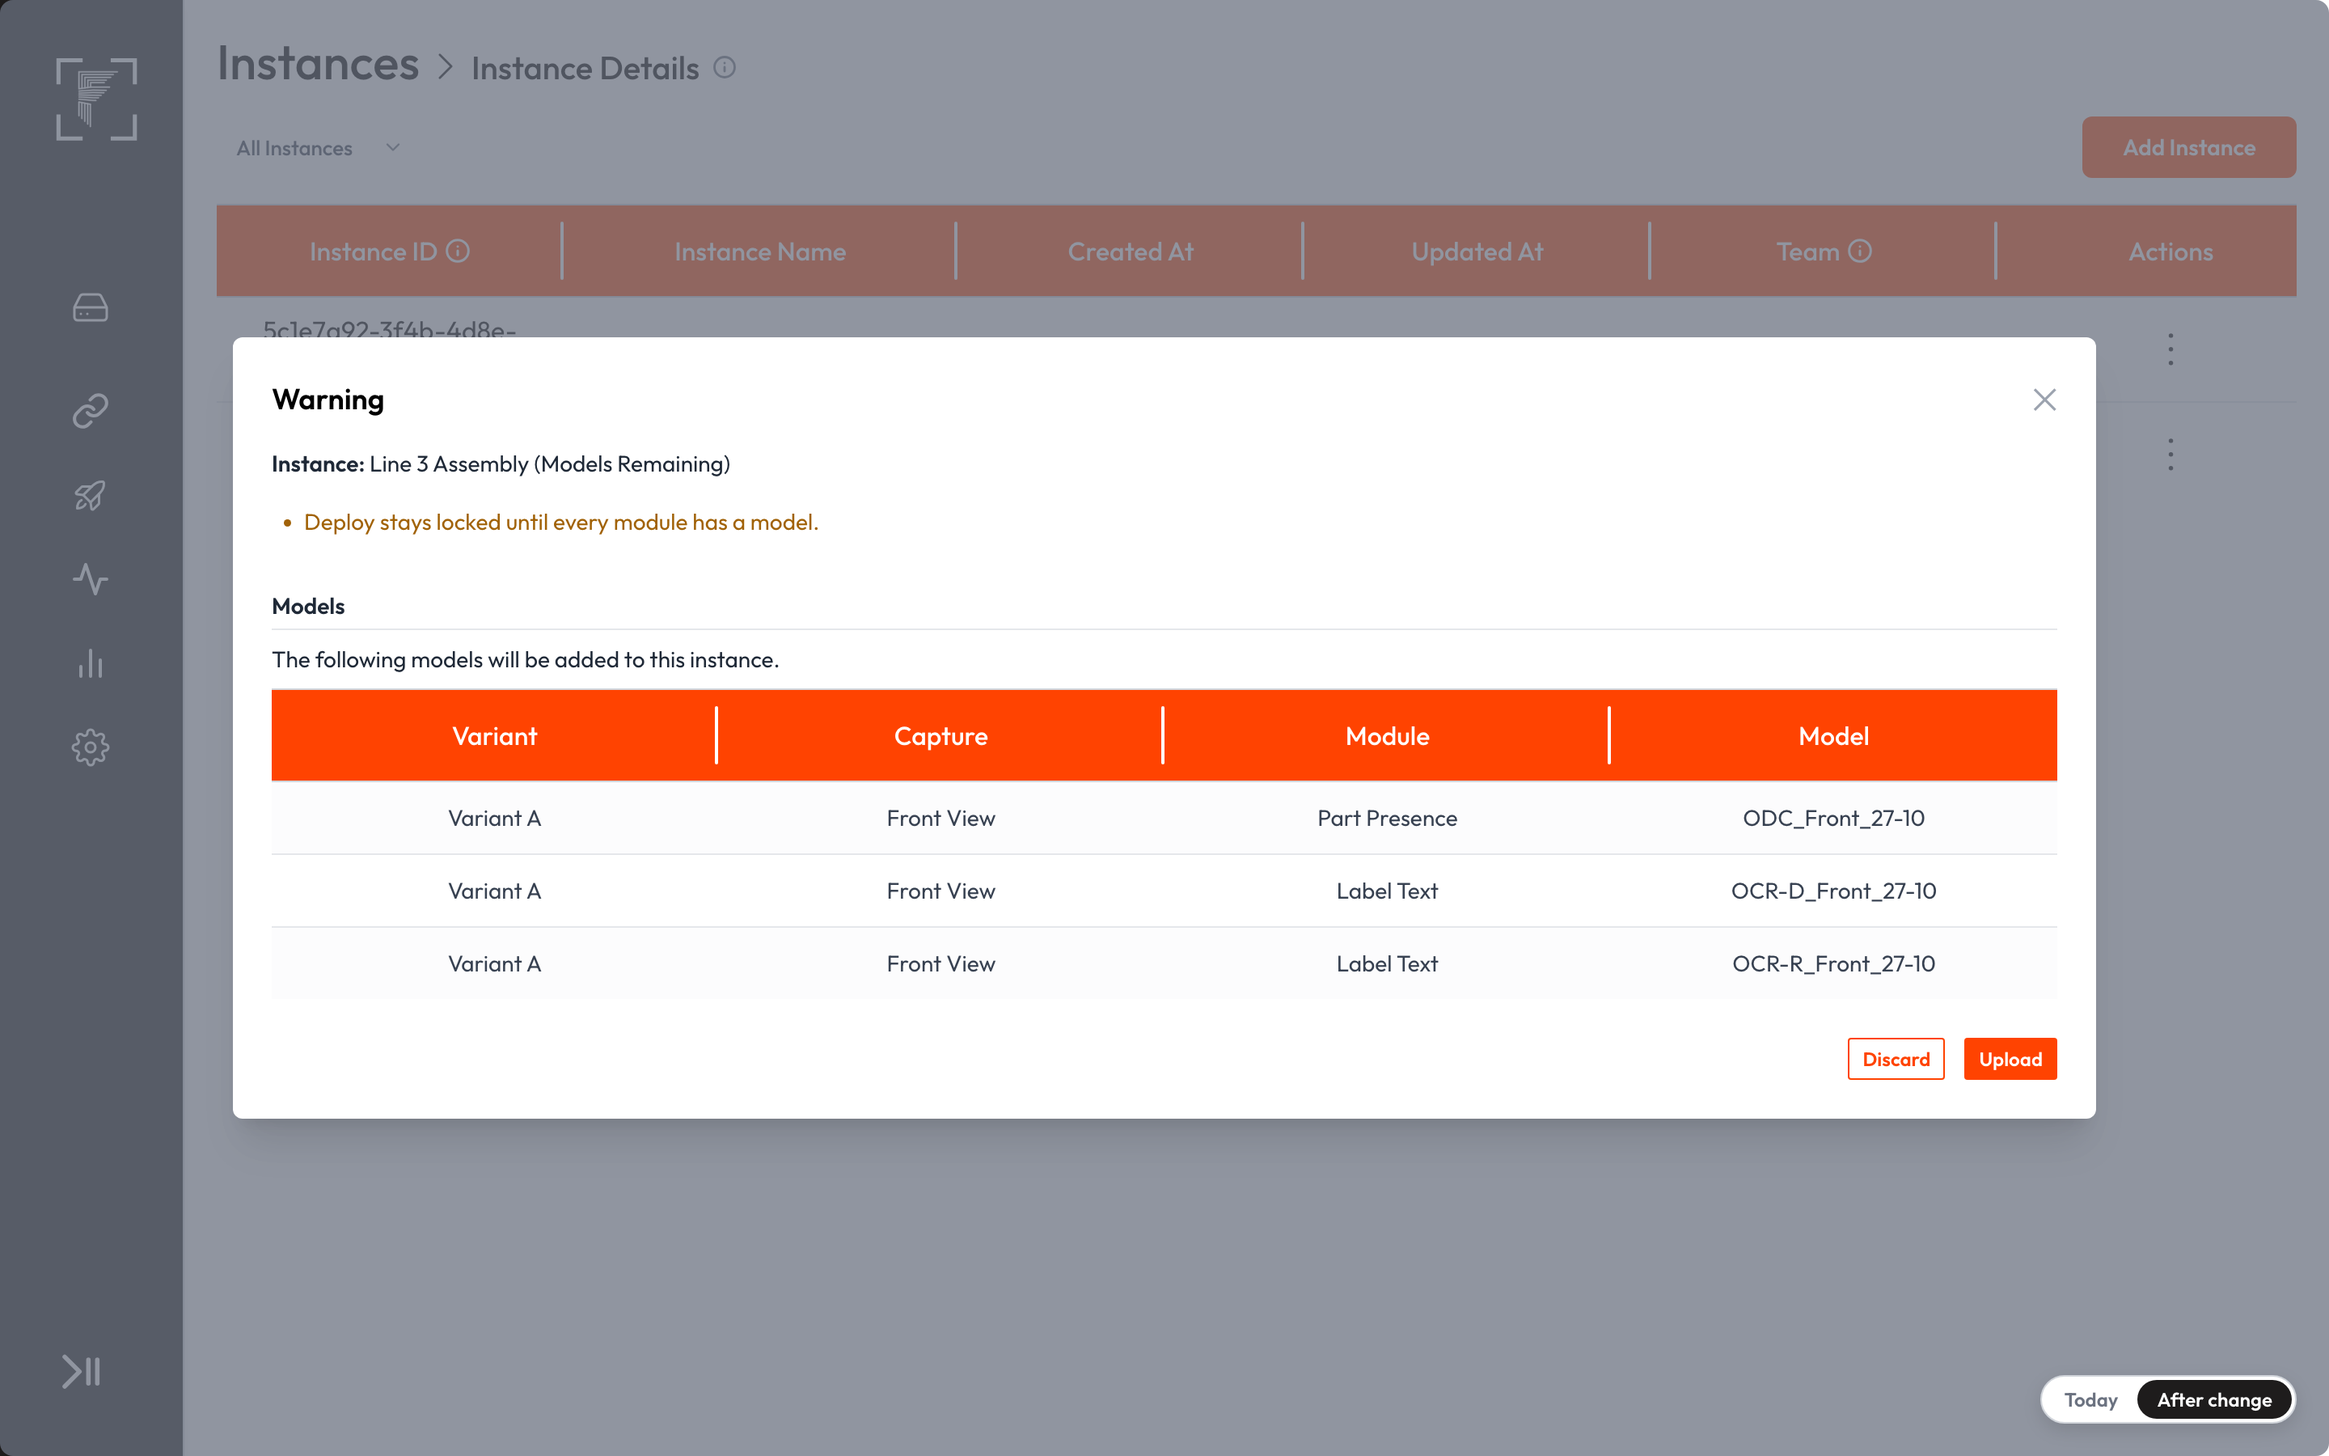
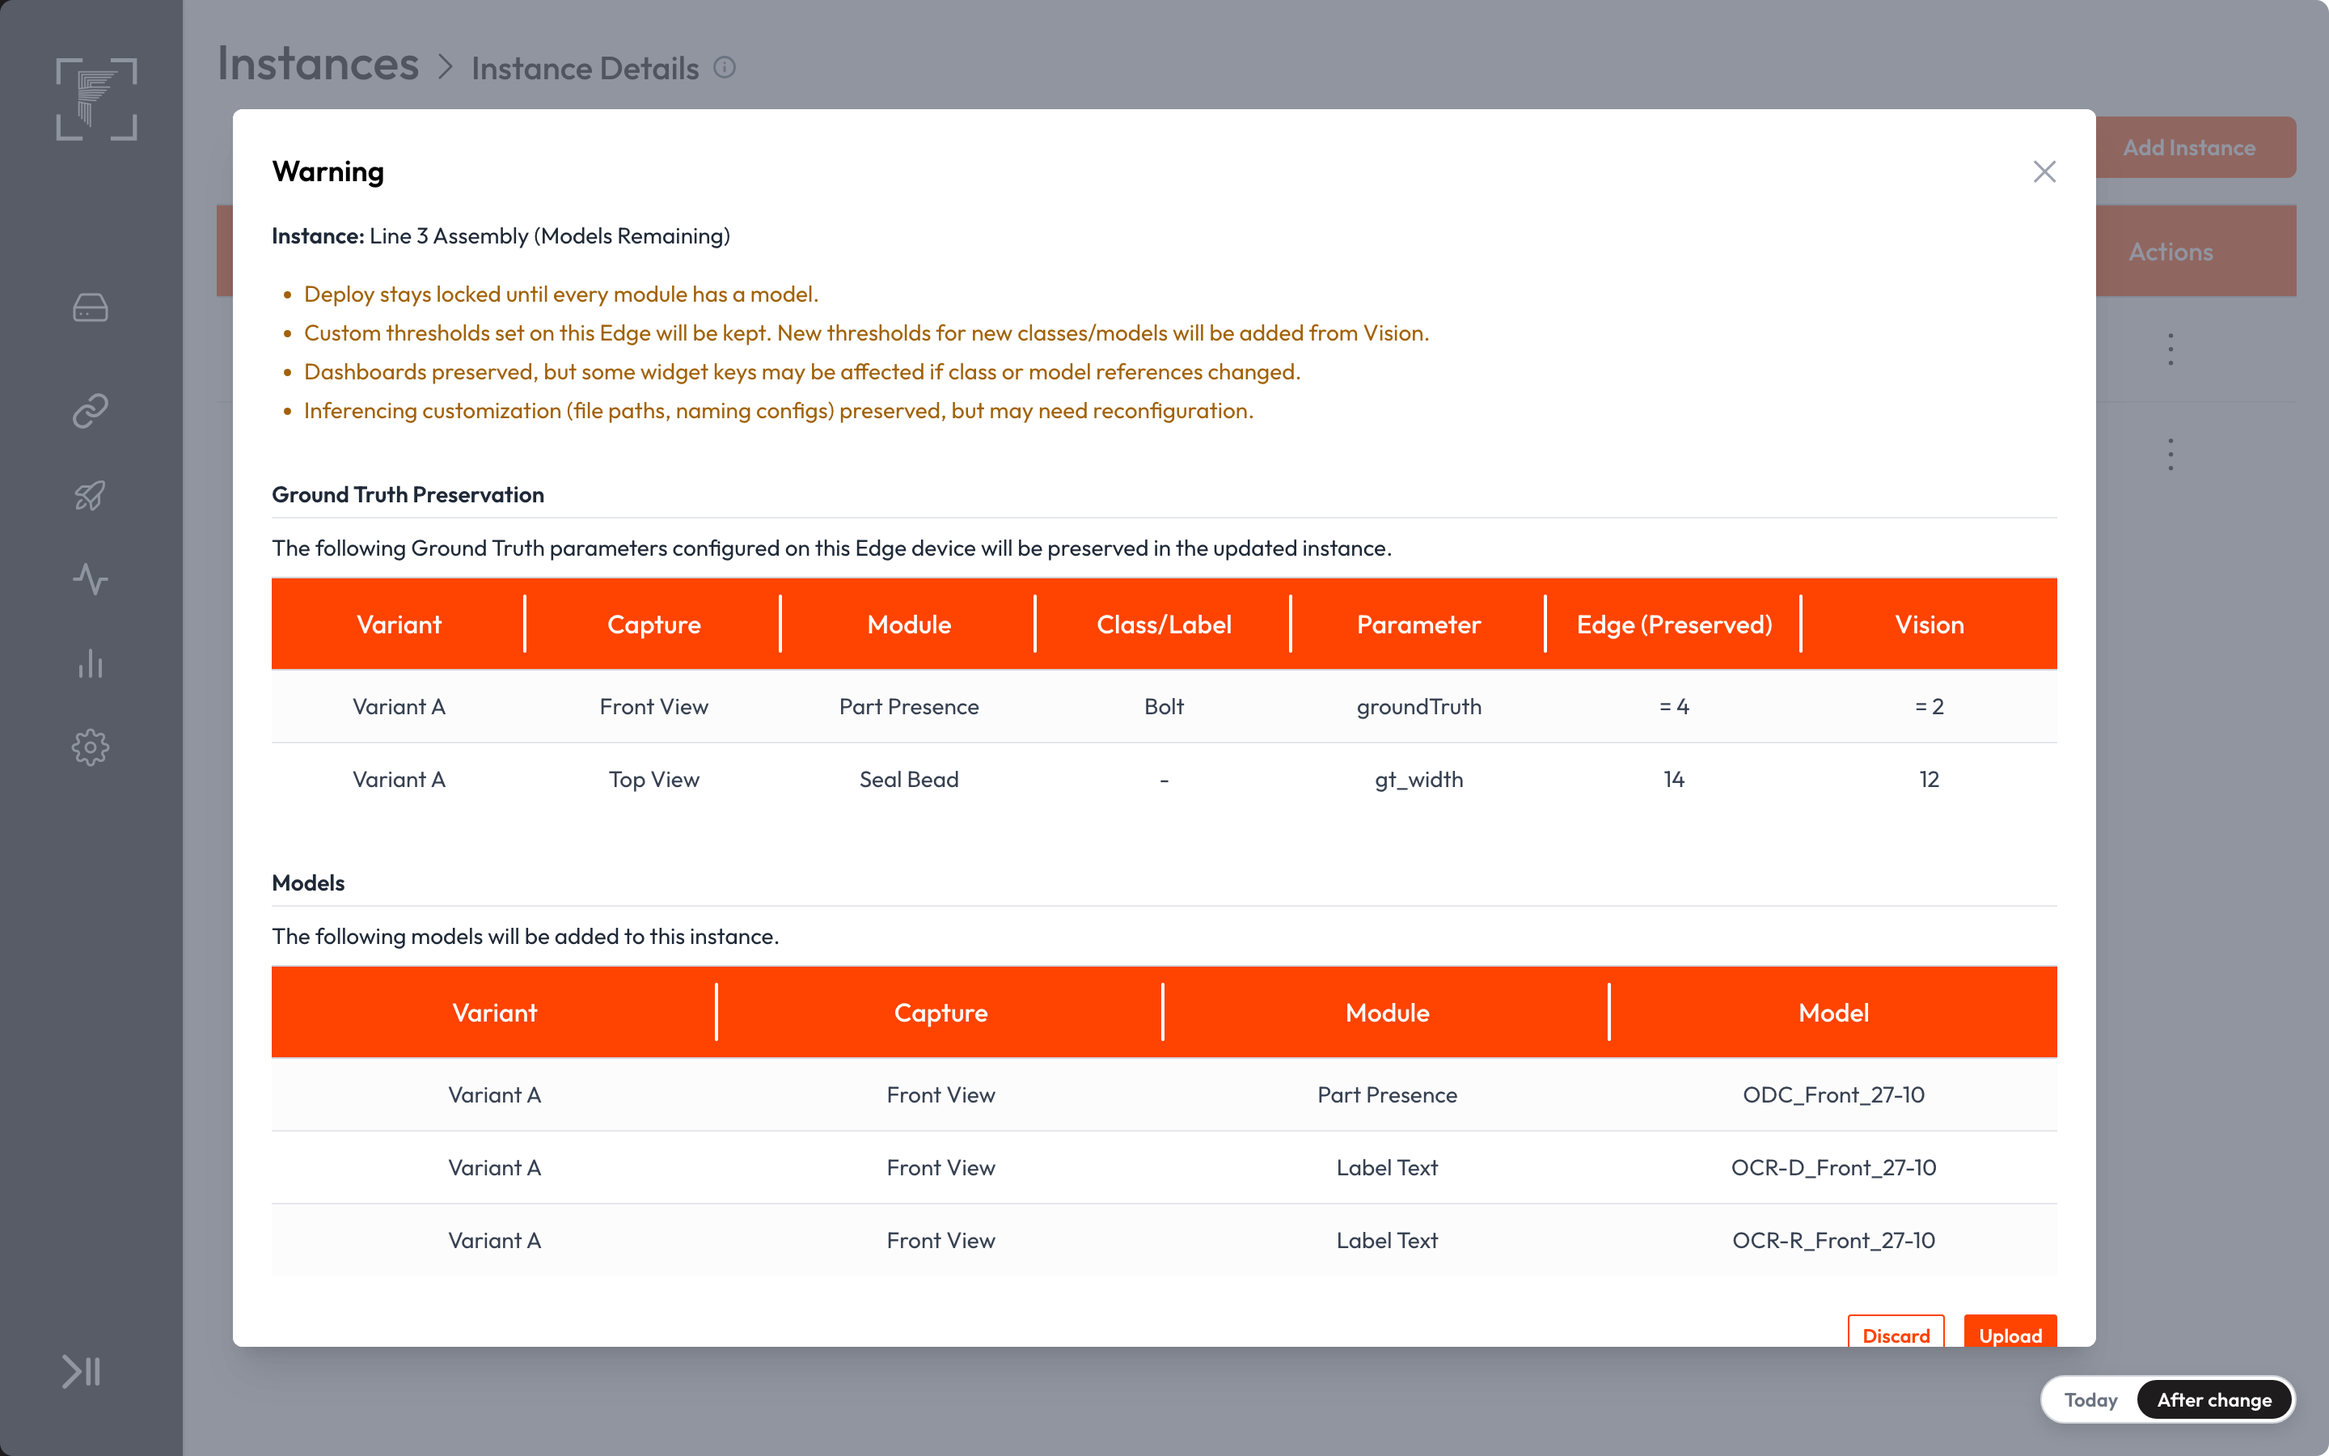
Round 3: Add Instance refuses an ID already on Edge, Edge testing greys out captures missing a model, full re-upload lines in the some-models dialog

diff --git a/edge-instances.html b/edge-instances.html
@@ -401,7 +401,7 @@ a.sb-item:hover{background:rgb(255 255 255/.2)}
   'use strict';
 
   // ---------- ?mode=today|after (default after), ?state=, ?open=dialog ----------
-  var STATES = ['upload', 'uploaded', 'some-models', 'models', 'wrong-instance', 'missing-config', 'reupload-config', 'reupload-full'];
+  var STATES = ['upload', 'uploaded', 'some-models', 'models', 'wrong-instance', 'missing-config', 'reupload-config', 'reupload-full', 'duplicate-id'];
   var mode = 'after', state = 'upload', openParam = '';
   try {
     var qs = new URLSearchParams(location.search);
@@ -457,7 +457,7 @@ a.sb-item:hover{background:rgb(255 255 255/.2)}
   var L2 = { id: '5c1e7a92-3f4b-4d8e-9a26-0b7f3c51e8d4', name: 'Line 2 Assembly', teamName: 'Team 1' };
   function L3() { var sh = readShared(); return { id: seedUuid(sh.instanceId), name: sh.instanceName, teamName: 'Team 1' }; }
   function inst(ref) { return ref === 'L3' ? L3() : L2; }
-  var REUPLOAD_DAY = state === 'reupload-config' || state === 'reupload-full';
+  var REUPLOAD_DAY = state === 'reupload-config' || state === 'reupload-full' || state === 'duplicate-id';
   var T = {
     l2Created: new Date(2026, 9, 14, 15, 33, 18).getTime(), l2Updated: new Date(2026, 9, 27, 11, 8, 42).getTime(),
     l2Reup: new Date(2026, 9, REUPLOAD_DAY ? 29 : 28, 9, 2, 16).getTime(),
@@ -469,7 +469,7 @@ a.sb-item:hover{background:rgb(255 255 255/.2)}
   function addL3Row(tagged, updatedAt) { rows.push({ ref: 'L3', createdAt: T.l3Created, updatedAt: updatedAt, tagged: tagged }); }
   // Line 3 on the box: Configuration only (tagged), or with some models (still tagged)
   if (state === 'uploaded' && mode === 'after') addL3Row(true, T.l3Cfg);
-  if (['some-models', 'wrong-instance', 'reupload-config', 'reupload-full'].indexOf(state) >= 0) addL3Row(mode === 'after', T.l3Cfg);
+  if (['some-models', 'wrong-instance', 'reupload-config', 'reupload-full', 'duplicate-id'].indexOf(state) >= 0) addL3Row(mode === 'after', T.l3Cfg);
   if (state === 'models') addL3Row(mode === 'after', T.l3Some);
   function rowOf(ref) { return rows.filter(function (r) { return r.ref === ref; })[0] || null; }
   function rowById(id) { return rows.filter(function (r) { return inst(r.ref).id === id; })[0] || null; }
@@ -487,13 +487,14 @@ a.sb-item:hover{background:rgb(255 255 255/.2)}
     var seed = readShared().instanceId;
     return ['Part Presence', 'Label Text', 'Seal Bead', 'Surface Check'].map(function (m) { return seedUuid(seed + '/' + m); });
   }
-  // Ground truth changed on this Edge (EMC) after the first upload, in the re-upload states.
+  // Ground truth changed on this Edge (EMC) after the first upload, in the some-models and re-upload states.
   // Shape of a getPreservationDetails gtDiff (uploadValidation.ts:1060-1470), values via formatValue (InstanceTable.jsx:38-57).
   var GT_DIFFS = [
     ['Variant A', 'Front View', 'Part Presence', 'Bolt', 'groundTruth', '= 4', '= 2'],
     ['Variant A', 'Top View', 'Seal Bead', '-', 'gt_width', '14', '12']
   ];
-  function gtDiffsFor(p) { return REUPLOAD_DAY && p.ref === 'L3' && p.hasSql && rowById(p.instId) ? GT_DIFFS : null; }
+  var GT_CHANGED = state === 'some-models' || state === 'reupload-config' || state === 'reupload-full';
+  function gtDiffsFor(p) { return GT_CHANGED && p.ref === 'L3' && p.hasSql && rowById(p.instId) ? GT_DIFFS : null; }
 
   // ---------- Packages in ~/Downloads (Vision names them "<instanceId>_<ISO time>.zip": frinksvision-backend controller/instance.ts:321) ----------
   // kind: config = configuration, no models; some = configuration + some models; full = configuration + every model;
@@ -518,10 +519,10 @@ a.sb-item:hover{background:rgb(255 255 255/.2)}
     'upload': ['l2full', 'l3cfg'], 'uploaded': ['l2full', 'l3cfg'],
     'some-models': ['l2full', 'l3cfg', 'l3some'],
     'models': ['l2full', 'l3cfg', 'l3some', 'l3models'], 'wrong-instance': ['l2full', 'l3cfg', 'l3some', 'l3models'], 'missing-config': ['l2full', 'l3cfg', 'l3some', 'l3models'],
-    'reupload-config': ['l2full', 'l3cfg', 'l3cfg2'], 'reupload-full': ['l2full', 'l3cfg', 'l3full']
+    'reupload-config': ['l2full', 'l3cfg', 'l3cfg2'], 'reupload-full': ['l2full', 'l3cfg', 'l3full'], 'duplicate-id': ['l2full', 'l3cfg', 'l3full']
   };
   var DEFAULT_FILE = { 'upload': 'l3cfg', 'uploaded': 'l3cfg', 'some-models': 'l3some', 'models': 'l3models', 'wrong-instance': 'l3models',
-    'missing-config': 'l3models', 'reupload-config': 'l3cfg2', 'reupload-full': 'l3full' };
+    'missing-config': 'l3models', 'reupload-config': 'l3cfg2', 'reupload-full': 'l3full', 'duplicate-id': 'l3full' };
   function filesForState() { return FILES[state]; }
   function defaultFile() { return DEFAULT_FILE[state]; }
   function modelsIn(p) { return p.key === 'l3some' ? SOME_MODELS : p.key === 'l3models' ? REST_MODELS : p.key === 'l3full' ? ALL_MODELS : null; }
@@ -550,6 +551,11 @@ a.sb-item:hover{background:rgb(255 255 255/.2)}
     function done() { res.canProceed = errors.length === 0; return res; }
     function push(list) { list.forEach(function (w) { warnings.push(w); }); }
 
+    // After: instance IDs are unique on an Edge, so Add Instance refuses any package whose instance is already here.
+    if (mode === 'after' && !target && rowById(p.instId)) {
+      errors.push("'" + p.instName + "' is already on this Edge. Use Update in its row to upload this package.");
+      return done();
+    }
     if (mode === 'after' && p.ref === 'L3') {
       // Right-instance check first; the instance is found by the package's own id, never by "LIMIT 1".
       if (target && target.id !== p.instId) { errors.push("This package is for '" + p.instName + "', not '" + target.name + "'."); return done(); }
@@ -559,7 +565,7 @@ a.sb-item:hover{background:rgb(255 255 255/.2)}
       res.summary = [['Instance', p.instName + bracket]];
       if (p.kind === 'config') push([LOCKED_NONE]);
       if (p.kind === 'some') push([LOCKED_SOME]);
-      if (p.hasSql) push(onBox ? (p.kind === 'some' ? [] : REUPLOAD_W_AFTER) : NEW_INSTANCE_W);
+      if (p.hasSql) push(onBox ? REUPLOAD_W_AFTER : NEW_INSTANCE_W);
       res.models = modelsIn(p);
       res.gtDiffs = gtDiffsFor(p);
       return done();
@@ -940,7 +946,7 @@ a.sb-item:hover{background:rgb(255 255 255/.2)}
     if (openParam !== 'dialog') return;
     // [package, row whose Update is used (null = Add Instance), banner/hook]
     var OPEN = { 'upload': ['l3cfg', null, 'top'], 'some-models': ['l3some', 'L3', 'tbl'], 'models': ['l3models', 'L3', 'tbl'],
-      'reupload-config': ['l3cfg2', 'L3', 'tbl'], 'reupload-full': ['l3full', 'L3', 'tbl'] };
+      'reupload-config': ['l3cfg2', 'L3', 'tbl'], 'reupload-full': ['l3full', 'L3', 'tbl'], 'duplicate-id': ['l3full', null, 'top'] };
     var o = OPEN[state];
     if (!o || (o[1] && !rowOf(o[1]))) return;
     var r = validate(pkgs()[o[0]], o[1] ? inst(o[1]) : null);

diff --git a/edge-instance-detail.html b/edge-instance-detail.html
@@ -158,8 +158,7 @@ a.sb-item:hover{background:rgb(255 255 255/.2)}
 .ui .tbl-w{margin:16px 0;display:flex;flex-direction:column;gap:16px}
 .ui tbody tr{font-weight:500}
 .browse{color:#ff4301;text-decoration:underline;cursor:pointer}
-/* Notice: health-monitor/components/LiveValuesTab.jsx:209 */
-.notice{border-radius:8px;border:1px solid #fde68a;background:#fffbeb;padding:12px 16px;font-size:14px;line-height:20px;color:#92400e}
+.browse.off{color:#9ca3af;cursor:not-allowed}
 .folder{display:flex;align-items:center;justify-content:space-between;gap:8px;border-radius:6px;padding:8px;cursor:pointer;box-shadow:0 4px 6px -1px rgb(0 0 0/.1),0 2px 4px -2px rgb(0 0 0/.1)}
 .ts-foot{display:flex;width:100%;justify-content:flex-end;overflow:hidden;border-top:1px solid #9ca3af;background:#fff;padding:16px 8px 0 0}
 .ts-foot>div{display:flex;max-width:28rem;flex:1 1 0%;align-items:center;justify-content:flex-end;gap:16px}
@@ -350,7 +349,6 @@ a.sb-item:hover{background:rgb(255 255 255/.2)}
   // no-models: no module has a model. some-models: Part Presence + Label Text have theirs, Seal Bead + Surface Check don't.
   var missingAny = state !== 'ready';
   var locked = missingAny && mode === 'after';             // Models Remaining tag + "Not added yet" rows
-  var runLocked = state === 'no-models' && mode === 'after'; // Run Test needs at least one model
 
   // ---------- Shared prototype state (localStorage "cfgonly-state") ----------
   var KEY = 'cfgonly-state';
@@ -382,17 +380,18 @@ a.sb-item:hover{background:rgb(255 255 255/.2)}
     { variant: 'Variant A', capture: 'Top View', module: 'Surface Check', model: 'SEG_Top_27-10', classes: ['Scratch', 'Dent'] }
   ];
   function hasModel(m) { return state === 'ready' || (state === 'some-models' && !!m.some); }
-  // Modules still without a model, in table order, once each.
-  function missingModules() {
-    var out = [];
-    MAPPINGS.forEach(function (m) { if (!hasModel(m) && out.indexOf(m.module) < 0) out.push(m.module); });
-    return out;
-  }
   function joinNames(a) { return a.length < 2 ? a.join('') : a.slice(0, -1).join(', ') + ' and ' + a[a.length - 1]; }
   var CAMERAS = [
     { variant: 'Variant A', ip: '192.168.1.11', capture: 'Front View' },
     { variant: 'Variant A', ip: '192.168.1.12', capture: 'Top View' }
   ];
+  // After: a capture can be tested only when every module in it that needs a model has one.
+  function missingIn(capture) {
+    var out = [];
+    MAPPINGS.forEach(function (m) { if (m.capture === capture && !hasModel(m) && out.indexOf(m.module) < 0) out.push(m.module); });
+    return mode === 'after' ? out : [];
+  }
+  var runLocked = CAMERAS.every(function (c) { return missingIn(c.capture).length > 0; }); // no capture can be tested
   // formatDate = new Date(Number(ts)).toLocaleString(); fixed locale/zone so screenshots are stable.
   function fmt(y, mo, d, h, mi, s) {
     return new Date(Date.UTC(y, mo - 1, d, h - 5, mi - 30, s)).toLocaleString('en-US', { timeZone: 'Asia/Kolkata' });
@@ -588,17 +587,13 @@ a.sb-item:hover{background:rgb(255 255 255/.2)}
 
   // ---------- Run a new test (Drawer size 6xl + Testing.jsx + UploadImage.jsx) ----------
   var folders = {};
-  // After: modules without a model are skipped by the test and named here.
-  function skipNotice() {
-    if (mode !== 'after' || state !== 'some-models') return '';
-    var miss = missingModules();
-    return miss.length ? joinNames(miss) + (miss.length > 1 ? ' have no model yet. They will' : ' has no model yet. It will') + ' be skipped in this test.' : '';
-  }
   function openTesting() {
     var rows = CAMERAS.map(function (c, i) {
-      var f = folders[i];
-      return '<tr>' + td(esc(c.variant)) + td(esc(c.capture)) +
-        td(f ? '<div class="folder" data-rm="' + i + '">' + FOLDER + esc(f) + CROSS + '</div>' : '<span class="browse" data-browse="' + i + '">Browse Folder</span>') + '</tr>';
+      var f = folders[i], miss = missingIn(c.capture);
+      var cell = miss.length
+        ? '<span class="browse off" aria-disabled="true" data-tip-pos="bottom" data-tip="' + esc('Add models to ' + joinNames(miss) + ' to test this capture.') + '">Browse Folder</span>'
+        : f ? '<div class="folder" data-rm="' + i + '">' + FOLDER + esc(f) + CROSS + '</div>' : '<span class="browse" data-browse="' + i + '">Browse Folder</span>';
+      return '<tr>' + td(esc(c.variant)) + td(esc(c.capture)) + td(cell) + '</tr>';
     }).join('');
     var h = '<div class="dr-bd" data-close></div><div class="dr dr-6xl" role="dialog" aria-label="Run a new test">' +
       '<div class="dr-h">Run a new test<span data-close>' + CLOSE + '</span></div>' +
@@ -607,7 +602,7 @@ a.sb-item:hover{background:rgb(255 255 255/.2)}
       '<div class="t">Choose one dataset folder for each of the configurations (that you’d like to test for) which should contain the test images and/or annotations for them (<span style="font-style:italic">with both the annotation filename and the image filename matching each other; if you choose to provide annotation file for one image, you need to provide the annotation files for all the images. You can also optionally include a \'masks\' folder containing mask images for segmentation annotations</span>).</div>' +
       '<div class="t">If you choose to provide annotations, the test results will give you recommendations for each of the Module’s classes’ thresholds.</div>' +
       '<div class="t2">Choose dataset folders for each of the configurations which you want to test and start the testing</div>' +
-      '<div class="tbl-w">' + (skipNotice() ? '<div class="notice">' + esc(skipNotice()) + '</div>' : '') +
+      '<div class="tbl-w">' +
       tableHTML([{ t: 'Variant' }, { t: 'Capture' }, { t: 'Dataset Folder', tip: 'Pick a folder of saved images to test this capture.' }], rows, {}) + '</div>' +
       '</div></div></div>' +
       '<div class="ts-foot"><div><button type="button" class="b b-pri b-lg b-full" data-start>Start Testing</button><button type="button" class="b b-border b-lg b-full" data-close>Cancel</button></div></div>' +
@@ -678,6 +673,7 @@ a.sb-item:hover{background:rgb(255 255 255/.2)}
   window.addEventListener('resize', sizeColumns);
   render();
   if (openRun && !runLocked) openTesting();
+  if (openRun && forceTip) { var off = document.querySelector('#drawerRoot .browse.off'); if (off) showTip(off); }
 })();
 </script>
 </body>

diff --git a/index.html b/index.html
@@ -98,7 +98,8 @@
     { id: 'edge-add-models',        group: 'Edge: all models',    label: 'Upload models',              file: 'edge-instances.html?state=models' },
     { id: 'edge-ready',             label: 'Ready to deploy',            file: 'edge-deploy.html?state=ready' },
     { id: 'edge-reupload-config',   group: 'Edge: re-upload',     label: 'Re-upload configuration',    file: 'edge-instances.html?state=reupload-config' },
-    { id: 'edge-reupload-full',     label: 'Re-upload complete',         file: 'edge-instances.html?state=reupload-full' }
+    { id: 'edge-reupload-full',     label: 'Re-upload complete',         file: 'edge-instances.html?state=reupload-full' },
+    { id: 'edge-add-again',         label: 'Add Instance again',         file: 'edge-instances.html?state=duplicate-id' }
   ];
   var INDEX = {};
   SECTIONS.forEach(function (s, i) { INDEX[s.id] = i; });
